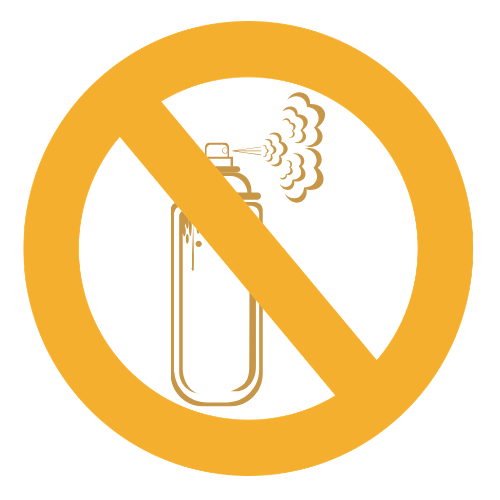
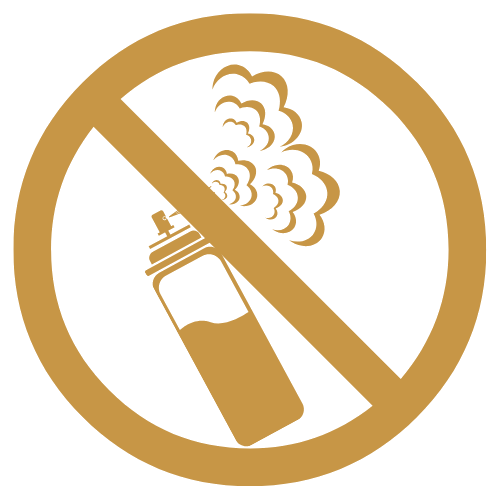
update

diff --git a/culture.html b/culture.html
@@ -94,19 +94,19 @@
                 <div class="mindset-grid">
 
                     <div class="mindset-item">
-                        <img src="" alt="">
+                        <img src="images/goals-icon.png" alt="">
                         <h3>Visualize Your Goals</h3>
                         <p>A clear vision allows better decisions and teady progress.</p>
                     </div>
 
                     <div class="mindset-item">
-                        <img src="" alt="">
+                        <img src="images/commitment-icon.png" alt="">
                         <h3>Absolute Commitment</h3>
                         <p>We take full responsibility until the result is achieved.</p>
                     </div>
 
                     <div class="mindset-item">
-                        <img src="" alt="">
+                        <img src="images/discipline-icon.png" alt="">
                         <h3>Disciplined Execution</h3>
                         <p>Consistent actions, executed daily, create real results.</p>
                     </div>
@@ -137,13 +137,13 @@
                     </div>
 
                     <div class="philosophy-item">
-                        <img src="" alt="">
+                        <img src="images/commitment-icon.png" alt="">
                         <h3>Commitment to Every Client</h3>
                         <p>Every vehicle represents value, and we treat each job with total responsibility.</p>
                     </div>
 
                     <div class="philosophy-item">
-                        <img src="" alt="">
+                        <img src="images/team-icon.png" alt="">
                         <h3>Teamwork</h3>
                         <p>Coordination, communication, and trust drive superior results.</p>
                     </div>

diff --git a/style.css b/style.css
@@ -1378,7 +1378,7 @@ header {
 
     text-align: center;
 
-    padding: 7rem 0;
+    padding: 6rem 0;
 
     border-top: var(--beige-border);
     border-bottom: var(--beige-border);
@@ -1479,8 +1479,8 @@ header {
     overflow: hidden;
 
     min-width: 0;
-    min-height: 580px;
-    padding: 10rem 3rem 2rem;
+    min-height: 500px;
+    padding: 10rem 2rem 2rem;
     border-radius: var(--radius);
 
     border: 1px solid var(--text-brown);
@@ -1680,13 +1680,13 @@ header {
 
     position: absolute;
 
-    top: -1px;
+    top: -2px;
     left: 50%;
 
     transform: translateX(-50%);
 
     width: 78%;
-    height: 2px;
+    height: 5px;
 
     background: linear-gradient(
         to right,